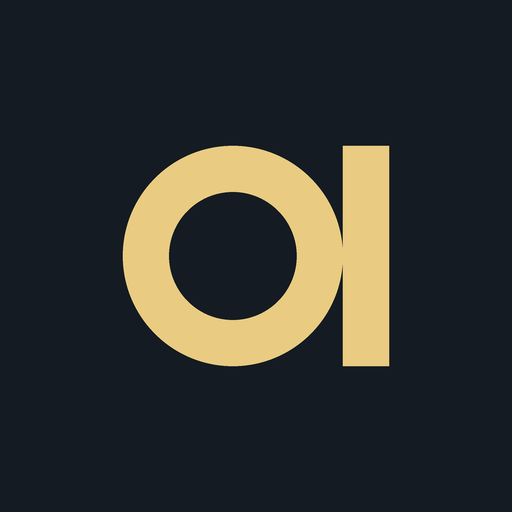
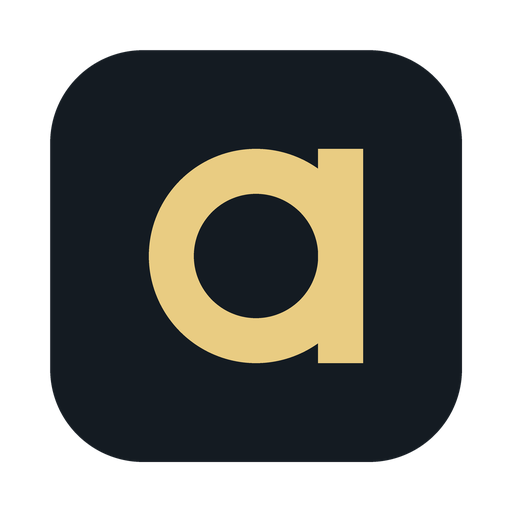
Add files via upload

diff --git a/index.html b/index.html
@@ -96,7 +96,7 @@
 
   /* Centered full-screen states: auth, lock, loading */
   .screen-center{min-height:100vh; display:flex; flex-direction:column; align-items:center; justify-content:center; text-align:center; padding:40px 28px; gap:18px;}
-  .logo{width:64px; height:64px; border-radius:18px; background:#141B22; display:flex; align-items:center; justify-content:center;}
+  .logo{width:72px; height:72px; display:block;}
   .h1{font-size:20px; font-weight:600; color:var(--cream);}
   .muted{color:var(--slate); font-size:14px; line-height:1.5; max-width:320px;}
   .btn{background:linear-gradient(180deg,#3A4954,#2C3A44); border:1px solid var(--gold); color:var(--gold2);
@@ -125,7 +125,7 @@
 
 <!-- AUTH -->
 <div id="auth" class="screen-center hidden">
-  <div class="logo"><svg width="46" height="46" viewBox="0 0 100 100" fill="none" aria-hidden="true"><circle cx="45.5" cy="50" r="17" stroke="#E9CC82" stroke-width="9"/><rect x="67" y="28.5" width="9" height="43" fill="#E9CC82"/></svg></div>
+  <img class="logo" src="icon.png" alt="AXIS">
   <div class="h1">AXIS</div>
   <div class="muted">Read-only case view. Sign in with Dropbox once to load your cases on this phone.</div>
   <button class="btn" id="signinBtn">Sign in with Dropbox</button>
@@ -134,7 +134,7 @@
 
 <!-- LOCK -->
 <div id="lock" class="screen-center hidden">
-  <div class="logo"><svg width="46" height="46" viewBox="0 0 100 100" fill="none" aria-hidden="true"><circle cx="45.5" cy="50" r="17" stroke="#E9CC82" stroke-width="9"/><rect x="67" y="28.5" width="9" height="43" fill="#E9CC82"/></svg></div>
+  <img class="logo" src="icon.png" alt="AXIS">
   <div class="h1" id="lockTitle">Locked</div>
   <div class="pinbox" id="pinDots"></div>
   <div class="err" id="lockErr"></div>
@@ -144,7 +144,7 @@
 
 <!-- SETUP LOCK (first run) -->
 <div id="setupLock" class="screen-center hidden">
-  <div class="logo"><svg width="46" height="46" viewBox="0 0 100 100" fill="none" aria-hidden="true"><circle cx="45.5" cy="50" r="17" stroke="#E9CC82" stroke-width="9"/><rect x="67" y="28.5" width="9" height="43" fill="#E9CC82"/></svg></div>
+  <img class="logo" src="icon.png" alt="AXIS">
   <div class="h1">Protect this app</div>
   <div class="muted">Add a lock so case data only opens for you. You can use Face ID, with a 4-digit PIN as backup.</div>
   <button class="btn" id="enableFaceBtn">Enable Face ID</button>
